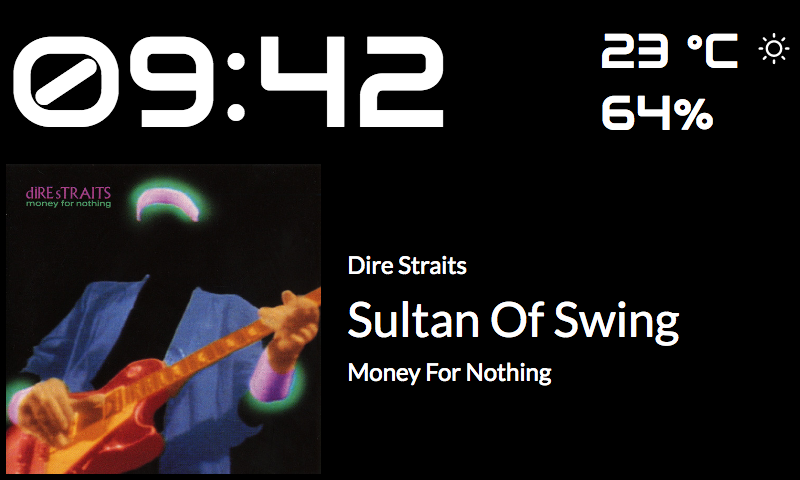
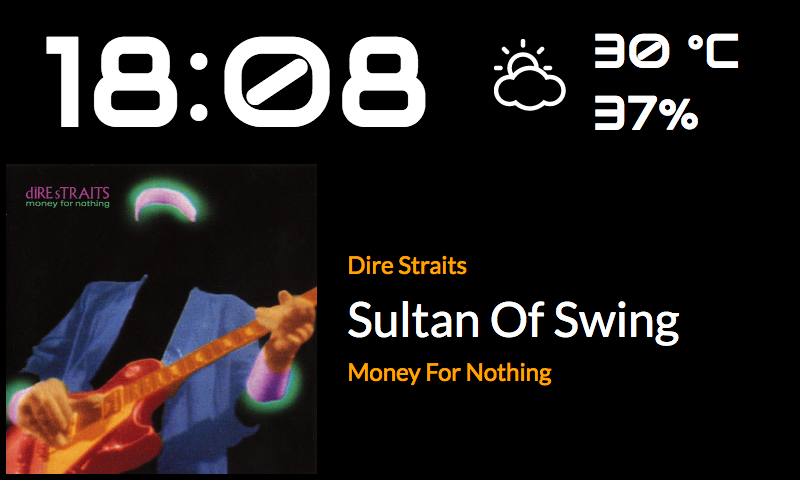
Slight style change

diff --git a/css/style.css b/css/style.css
@@ -65,8 +65,7 @@ body
 
 #topRow
 {
-	display:				grid;
-	grid-template-columns:	69% 31%;
+	display:				flex;
 	font-family:			Audiowide, sans-serif;
 	font-size:				16vw;
 	padding-left:			.1ex;
@@ -76,6 +75,8 @@ body
 #clock
 {
 	white-space:			nowrap;
+	text-align:				center;
+	flex:					1 1 45%;
 }
 
 #hour::after
@@ -88,14 +89,32 @@ body
 
 #weather
 {
-	font-size:				10vh;
-	justify-self:			end;
+	flex:					1 1 content;
 	align-self:				center;
+	display:				flex;
+	font-size:				10vh;
+}
+
+#todayData,
+#weatherIcon
+{
+	flex:					1 0 content;
+}
+
+#todayData
+{
+	white-space:			nowrap;
+}
+
+#weatherIcon
+{
+	align-self:				center;
+	text-align:				center;
 }
 
 #weatherIcon svg
 {
-	width:					.8em;
+	width:					1.5em;
 	height:					auto;
 }
 
@@ -186,4 +205,5 @@ body
 #artist
 {
 	font-size:				5vh;
+	color:					orange;
 }

diff --git a/index.html b/index.html
@@ -16,9 +16,11 @@
 			</div>
 		
 			<div id="weather">
-				<span id="temp"></span>
-				<span id="weatherIcon"></span>
-				<div id="humidity"></div>
+				<div id="weatherIcon"></div>
+				<div id="todayData">
+					<div id="temp"></div>
+					<div id="humidity"></div>
+				</div>
 			</div>
 		</div>
 		
